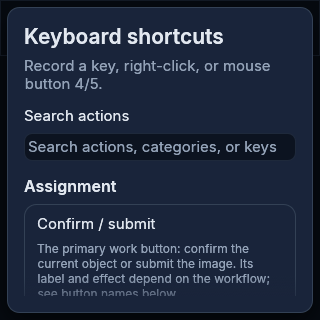
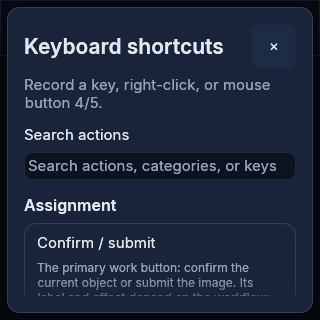
Capture issue 190 shortcut settings verification

diff --git a/README.md b/README.md
@@ -1,10 +1,10 @@
 # Shortcut settings evidence for issue 190
 
-Production change: `120f9cdef1a74c39217f9cc7da2f57147a322538`.
+Production change: `64dabe8b6a2adf7e0b079b9f1de4830a591a192f`.
 Comparison base: PR #191, `88c079e9d502f3e41c3c0a19bb0b771213f01baa`.
 Stack: main → #184 → #185 → #186 → #187 → #191 → #192.
 Captures were taken from the working diff subsequently published as that commit.
-`source-files.json` records the final six source/document file hashes.
+`source-files.json` records the final seven source/document file hashes.
 
 ## Before and after
 
@@ -21,7 +21,7 @@ Captures were taken from the working diff subsequently published as that commit.
 - `native-conflict-390.png`: peer name/context, conflict filter and disabled Save,
   390x844, scale 1.
 
-Native and browser captures were refreshed after rebasing onto #191. Native evidence proves shared rendering
+Native and browser captures were refreshed for the close-button and successful-save closure follow-up. Native evidence proves shared rendering
 and AccessKit semantics, not browser behavior.
 
 ## Chromium
@@ -45,8 +45,9 @@ Published representative captures:
   pending save, synthetic HTTP 503 retains F9, then Escape opens discard;
   1440x1000, DPR 1, 100% zoom. The intercepted save payload contained F9.
 
-The browser matrix checks startup and Escape dismissal; the separate interaction
-case checks real keyboard recording and save-failure presentation. Per-control
+The browser matrix checks startup, top-right close at DPR 1, and Escape dismissal; the separate interaction
+case checks real keyboard recording, save-failure presentation and successful retry closing settings.
+`browser-saved-closed.png` shows Setup after the successful response, at 1440x1000, DPR 1. Per-control
 browser accessibility is not exposed by the current canvas adapter; CDP reports
 Canvas/textbox roles. Native AccessKit and deterministic tests cover control names
 and disabled/selected semantics. OS-level text enlargement and platform screen
@@ -58,7 +59,7 @@ request bodies or browser traces are included.
 
 - `./scripts/verify.sh changed 88c079e9d502f3e41c3c0a19bb0b771213f01baa`: passed on final change; selected UI
   and browser profiles, complete locked baseline and release Trunk build.
-- UI suite: 638 passed, one existing ignored test.
+- UI suite: 639 passed, one existing ignored test.
 - Focused tests cover aliases (including actual schema keypoint names), category
   continuity, text/control non-intersection with long chords, peer conflicts and
   filtering, final-row/footer scroll reachability, existing save/reset/cancel/error
